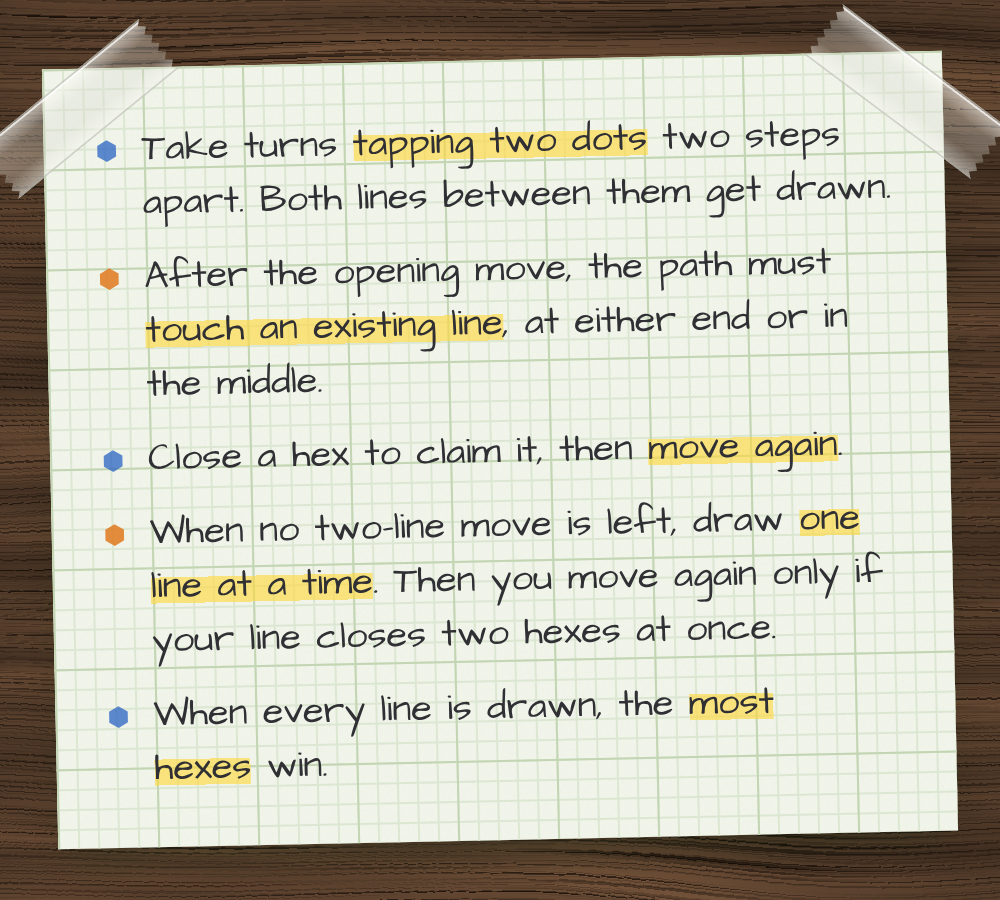
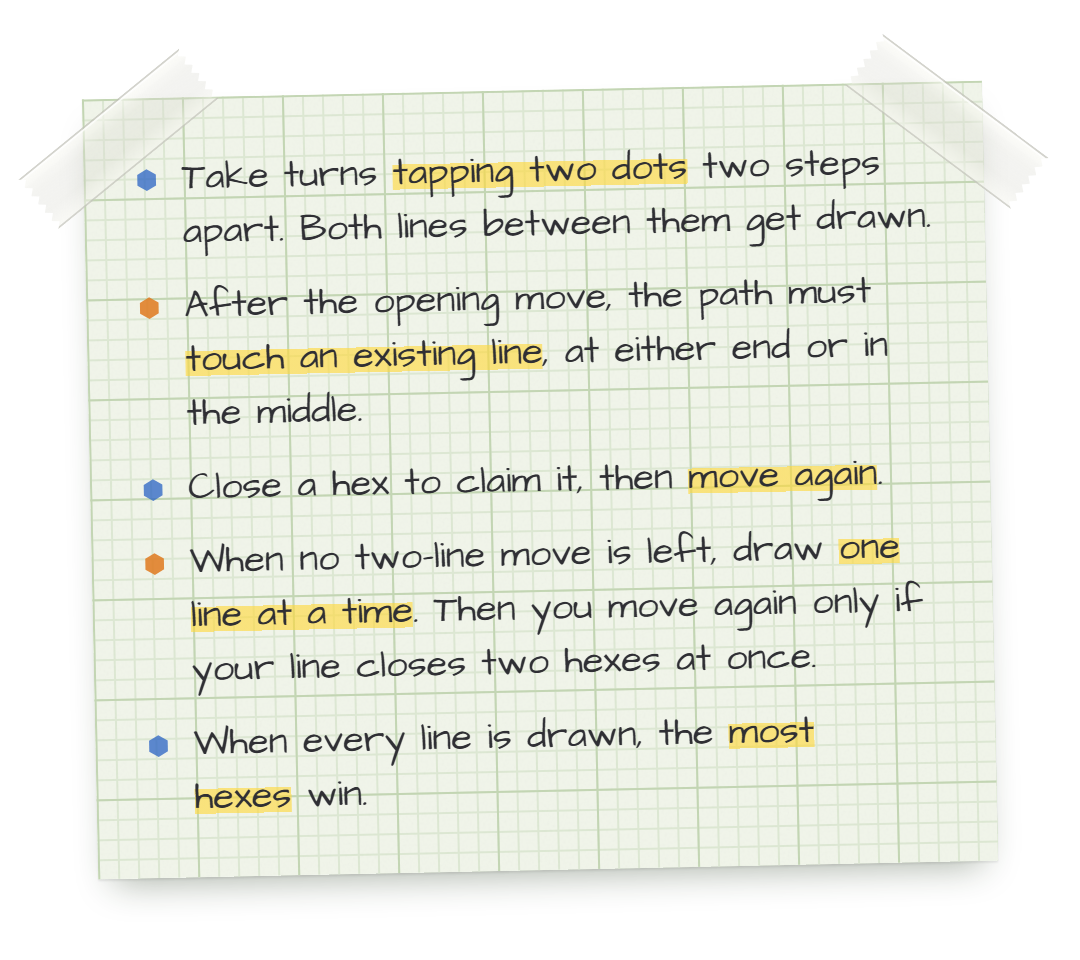
.

diff --git a/itch/rules.html b/itch/rules.html
@@ -6,7 +6,8 @@
 		<!-- The home page's rules, for the itch.io description: styled as in src/Home.svelte, on the graph pad.
 	     render.sh renders it at the size of .canvas (450×390).
 	     #taped: the same sheet, a little askew, stuck down with two strips of clear tape across its top corners,
-	     on the game's walnut desk (rendered at 500×450) -->
+	     on a transparent background, for the itch.io page's own desk (rendered at 540×480, room for the tape ends
+	     and the shadow) -->
 		<link rel="stylesheet" href="common.css" />
 		<style>
 			.canvas {
@@ -38,19 +39,10 @@
 
 			/* #taped */
 			body.taped {
-				width: 500px;
-				height: 450px;
-				background: var(--desk);
+				width: 540px;
+				height: 480px;
 				display: grid;
 				place-content: center;
-			}
-
-			/* the walnut desk, as in src/routes/+page.svelte */
-			.desk {
-				position: absolute;
-				inset: 0;
-				width: 100%;
-				height: 100%;
 			}
 
 			.taped .canvas {
@@ -115,7 +107,6 @@
 
 			if (location.hash === '#taped') {
 				document.body.classList.add('taped');
-				document.body.insertAdjacentHTML('afterbegin', '<svg class="desk"><rect width="100%" height="100%" filter="url(#wood)" /></svg>');
 				const canvas = document.querySelector('.canvas');
 
 				// torn ends: small zigzags across each short side

diff --git a/itch/Desk.html b/itch/Desk.html
@@ -1,0 +1,34 @@
+<!doctype html>
+<html lang="en">
+	<head>
+		<meta charset="utf-8" />
+		<title>Dots and Hexes desk</title>
+		<!-- The game's walnut desk (the #wood filter of src/Defs.svelte, via board.js), for the itch.io page
+	     background. render.sh renders it at the window's size (2560×1440). -->
+		<link rel="stylesheet" href="common.css" />
+		<style>
+			body {
+				width: 100vw;
+				height: 100vh;
+				background: var(--desk);
+			}
+
+			.desk {
+				position: absolute;
+				inset: 0;
+				width: 100%;
+				height: 100%;
+			}
+		</style>
+	</head>
+
+	<body>
+		<svg class="desk"><rect width="100%" height="100%" filter="url(#wood)" /></svg>
+
+		<script type="module">
+			import { addDefs } from './board.js';
+
+			addDefs();
+		</script>
+	</body>
+</html>
